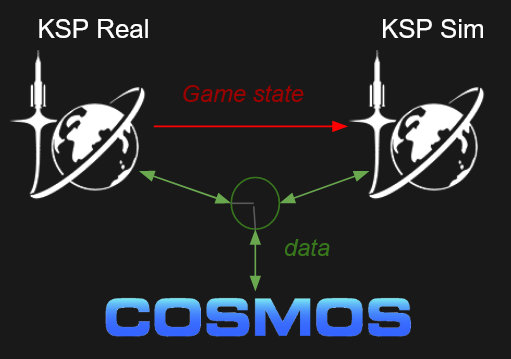
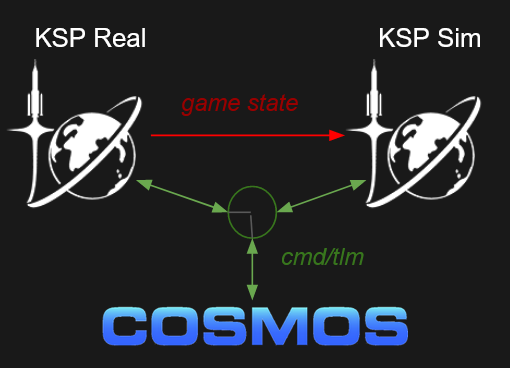
fixed sim-real text, added horisontal rules

diff --git a/cosmic_ksp.md b/cosmic_ksp.md
@@ -34,6 +34,8 @@ A project to command the video game **[Kerbal Space Program](https://www.kerbals
   </div>
 </div>
 
+---
+
 ## **Game Instance Communication**
 KPS does not support external commanding or telemetry out of the box. To add this I use two mods provided by the KSP fan community.
 
@@ -65,6 +67,8 @@ These two relay threads form the translation layer between COSMOS and KSP. They 
 ## **COSMOS**
 [COSMOS](https://cosmosc2.com/) by Ball Aerospace is a command and control system providing commanding, scripting, and data visualization capabilities for embedded systems. COSMOS is intended for use during all phases of testing and during operations.
 COSMOS 5 is a cloud native build and comes in the form of a docker container. For this reason, COSMOS is actually running on a separate server machine I own, and is interfaced with over a browser.
+
+---
 
 ## **Wrokflow and Instance Configurations**
 <div class="row p-1 my-3" style="border-radius: 10px; border-style: solid; border-color: #121212; border-width: 4px; background-color: #191919;">
